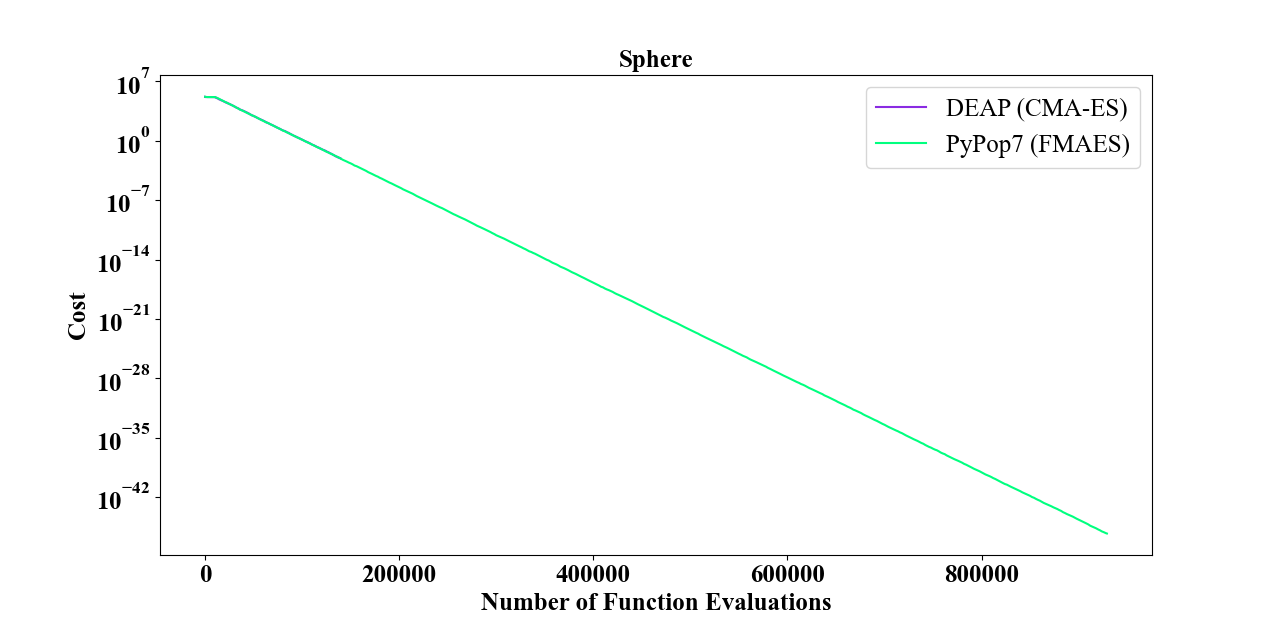
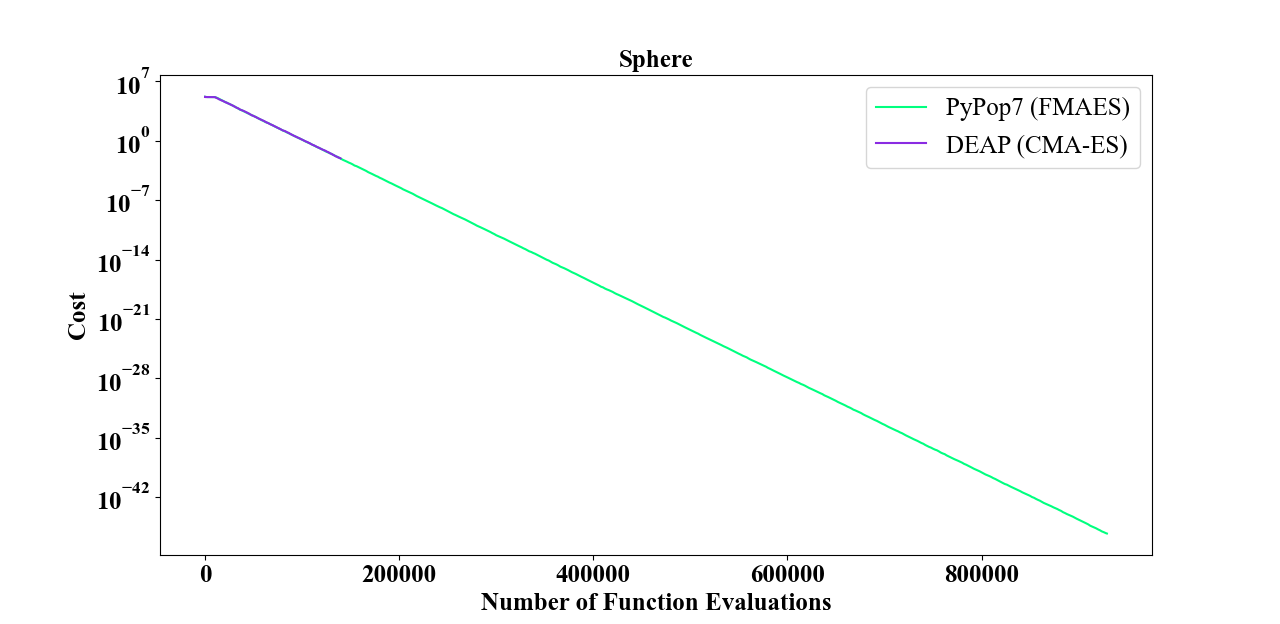
Update docs/efficiency/sphere/compare_deap-cmaes_vs_pypop7-fmaes.py

diff --git a/docs/efficiency/sphere/compare_deap-cmaes_vs_pypop7-fmaes.py b/docs/efficiency/sphere/compare_deap-cmaes_vs_pypop7-fmaes.py
@@ -19,9 +19,9 @@ def read_pickle(s, ii):
 
 if __name__ == '__main__':
     n_trials = 10
-    algos = ['DEAP', 'PYPOP7F']
-    labels = ['DEAP (CMA-ES)', 'PyPop7 (FMAES)']
-    colors = ['blueviolet', 'springgreen']
+    algos = ['PYPOP7F', 'DEAP']
+    labels = ['PyPop7 (FMAES)', 'DEAP (CMA-ES)']
+    colors = ['springgreen', 'blueviolet']
     max_runtime, fitness_threshold = 3600*3 - 10*60, 1e-10
     time, fitness, fe = [], [], []
     for j in range(len(algos)):  # initialize
@@ -68,6 +68,40 @@ if __name__ == '__main__':
     plt.legend(labels, fontsize=18)
     plt.show()
 
+    algos = ['DEAP', 'PYPOP7F']
+    labels = ['DEAP (CMA-ES)', 'PyPop7 (FMAES)']
+    colors = ['blueviolet', 'springgreen']
+    max_runtime, fitness_threshold = 3600 * 3 - 10 * 60, 1e-10
+    time, fitness, fe = [], [], []
+    for j in range(len(algos)):  # initialize
+        time.append([])
+        fitness.append([])
+        fe.append([])
+        for i in range(n_trials):
+            time[j].append([])
+            fitness[j].append([])
+            fe[j].append([])
+    for i in range(n_trials):
+        for j, a in enumerate(algos):
+            results = read_pickle(a, str(i + 1))
+            time[j][i] = results['fitness'][:, 0] * results['runtime'] / results['n_function_evaluations']
+            fe[j][i] = results['fitness'][:, 0]
+            y = results['fitness'][:, 1]
+            fitness[j][i] = y
+            print(i + 1, ' * ', a, ':', results['n_function_evaluations'], results['best_so_far_y'])
+    top_fitness, top_order = [], []
+    for j, a in enumerate(algos):
+        run, fit, r_f = [], [], []
+        for i in range(len(time[j])):
+            run.append(time[j][i][-1] if time[j][i][-1] <= max_runtime else max_runtime)
+            fit.append(fitness[j][i][-1] if fitness[j][i][-1] >= fitness_threshold else fitness_threshold)
+            r_f.append([run[i], fit[i], i])
+        r_f.sort(key=lambda x: (x[0], x[1]))  # sort by first runtime then fitness
+        order = r_f[int(n_trials / 2)][2]  # for median (but non-standard for simplicity)
+        top_order.append(order)
+        top_fitness.append([run[order], fit[order], a])
+    top_fitness.sort(key=lambda x: (x[0], x[1]))
+    top_fitness = [t for t in [tr[2] for tr in top_fitness]]
     fig = plt.figure(figsize=(8.5, 8.5))
     plt.rcParams['font.family'] = 'Times New Roman'
     ax1 = fig.add_subplot(111)
